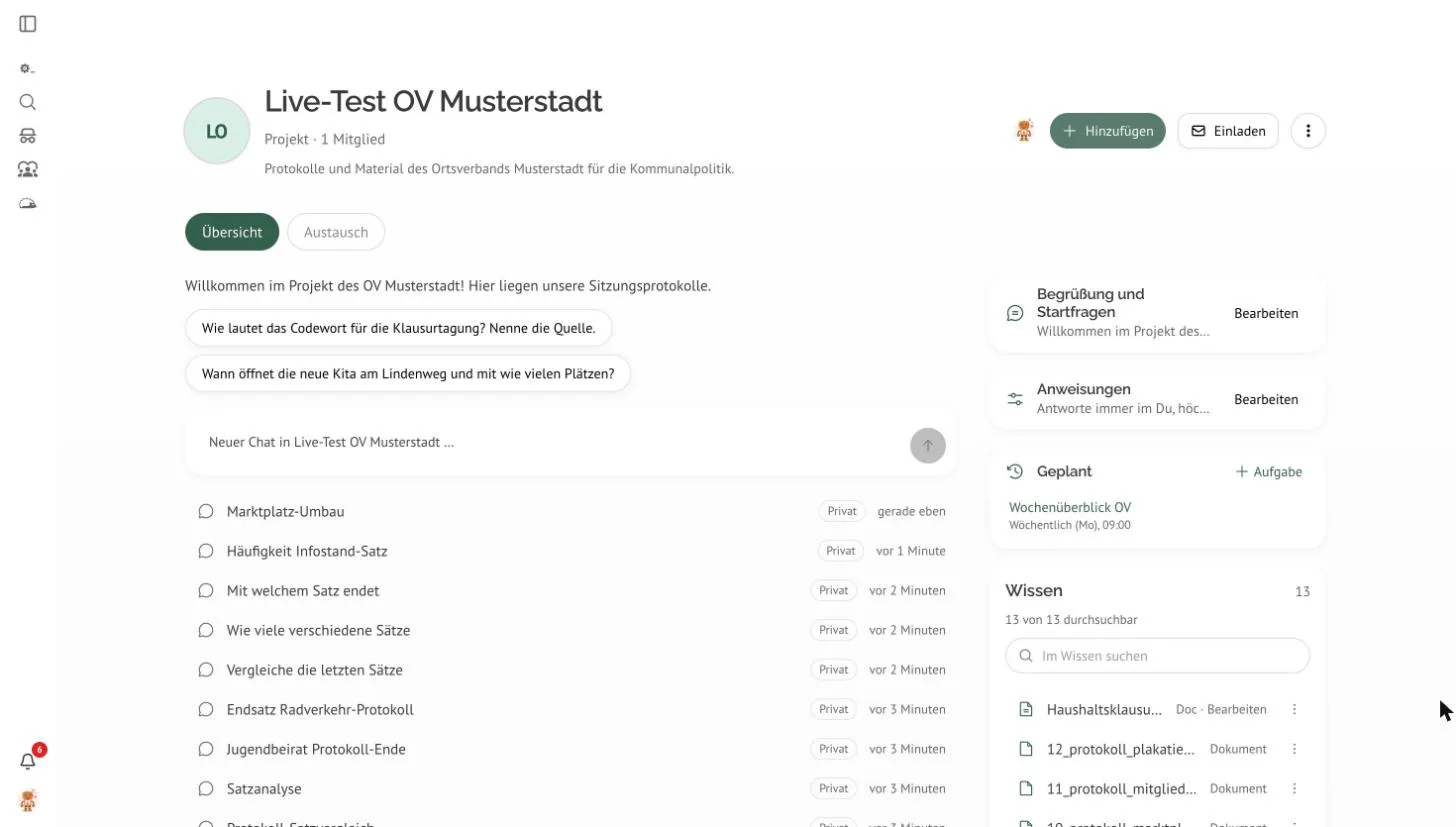
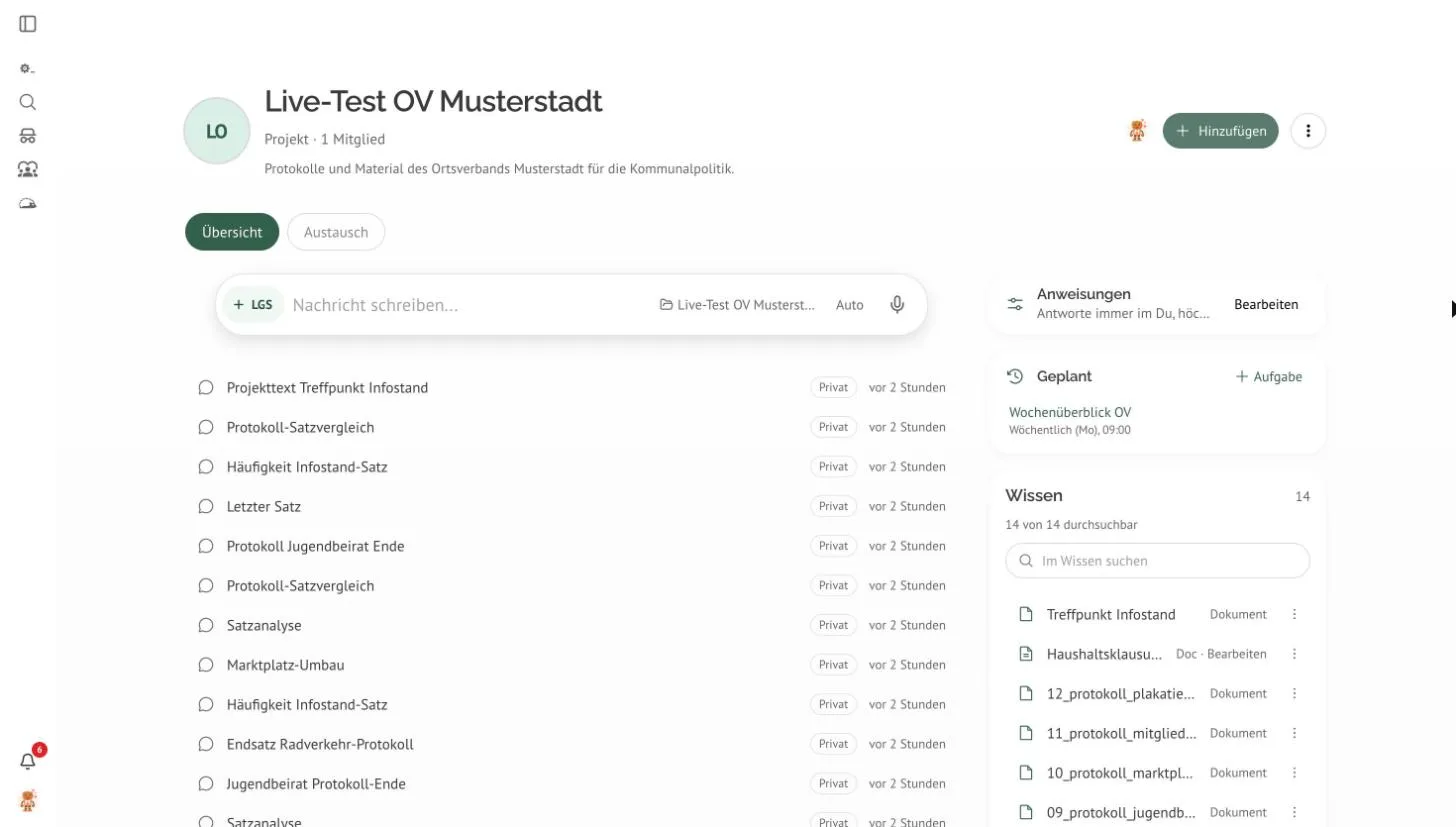
docs: project page without greeting, header invite or own composer
The guide now sends admins to the "…" menu to invite and shows a fresh
screenshot of the overview with the start composer.

diff --git a/docs/CLAUDE-groups.md b/docs/CLAUDE-groups.md
@@ -7,7 +7,7 @@ Stand: 22.11.2026. Produktname: **Projekte**; technische IDs, Tabellen und API-P
 **Seit 22.11.2026 gibt es eine Art Projekt** (Produktentscheidung): man legt es auf einem Weg an, nutzt es allein oder mit anderen, und Mitglieder lassen sich jederzeit einladen. „Gruppe“ ist kein Produktwort mehr (auch nicht für Team-Projekte). Die früheren Regeln „Persönlich“ vs. „Team“ (Revision 11.11.) sind zurückgenommen.
 
 - **Gespeichert wird `group_type = 'standard'`**; der Server ignoriert ein mitgeschicktes `groupType` (ausgelieferte Mobile-Binaries senden es noch). `'personal'` bleibt als F0-Altwert in Zeilen, Contract-Enum und Binaries lesbar, **verhält sich aber überall wie `'standard'`**: kein Server-Guard und keine UI-Weiche liest ihn mehr, ein Umkippen beim ersten Einladen braucht es deshalb nicht (Beitritt per Token und E-Mail-Einladung prüfen den Typ nie).
-- **Das Verhalten folgt der Mitgliedschaft:** Beiträge, Kommentare, Reaktionen, Mitglieder, Einladen, Beitrittsanfragen und „Öffentlich machen“ gibt es in jedem Projekt außer dem System-Projekt. Was nur mit anderen Sinn ergibt — der Tab **Austausch** und der Schalter **„Für das Team“** beim neuen Projekt-Chat — zeigt die UI bei mehr als einer Person; der **Austausch** zusätzlich, sobald es Beiträge oder besprochene Freigaben gibt (`hasAustauschContent`, #5950: wer wieder allein ist, verliert seine Beiträge nicht). Einladen steht als Knopf im Kopf (Admins, nicht im System- oder archivierten Projekt). **Archiviert** heißt: nur lesen — keine neuen Freigaben, Beiträge, Kommentare, Chats; wiederkehrende Aufgaben des Projekts **ruhen** (`claimDueRecurringTasks` überspringt sie, API und Chat-Werkzeug legen dort keine neuen an, #5951); nach „Wiederherstellen“ läuft eine überfällige Aufgabe einmal nach. Der Server lehnt nichts mehr nach Typ ab (Team-Chat in jedem Projekt, `team_chat_needs_team_project` kommt nur noch, wenn die Projektzeile fehlt).
+- **Das Verhalten folgt der Mitgliedschaft:** Beiträge, Kommentare, Reaktionen, Mitglieder, Einladen, Beitrittsanfragen und „Öffentlich machen“ gibt es in jedem Projekt außer dem System-Projekt. Was nur mit anderen Sinn ergibt — der Tab **Austausch** und der Schalter **„Für das Team“** beim neuen Projekt-Chat — zeigt die UI bei mehr als einer Person; der **Austausch** zusätzlich, sobald es Beiträge oder besprochene Freigaben gibt (`hasAustauschContent`, #5950: wer wieder allein ist, verliert seine Beiträge nicht). Einladen steht im „…“-Menü (Admins, nicht im System- oder archivierten Projekt); einen zweiten Knopf im Kopf gibt es bewusst nicht. Begrüßung und Startfragen auf der Übersicht gibt es seit 23.11.2026 nicht mehr (Produktentscheidung); die Spalten `group_instructions.welcome_message`/`start_questions` bleiben als F0 stehen und werden nicht gelesen. **Archiviert** heißt: nur lesen — keine neuen Freigaben, Beiträge, Kommentare, Chats; wiederkehrende Aufgaben des Projekts **ruhen** (`claimDueRecurringTasks` überspringt sie, API und Chat-Werkzeug legen dort keine neuen an, #5951); nach „Wiederherstellen“ läuft eine überfällige Aufgabe einmal nach. Der Server lehnt nichts mehr nach Typ ab (Team-Chat in jedem Projekt, `team_chat_needs_team_project` kommt nur noch, wenn die Projektzeile fehlt).
 
 | Art | Kennzeichen | Übersicht | Austausch |
 | --- | --- | --- | --- |
@@ -22,7 +22,7 @@ Web: `apps/web/src/features/groups/components/GroupInfoSection.tsx` (Kopf, „Hi
 
 **Übersicht** (`?beitrag=` und das System-Projekt öffnen stattdessen den Austausch):
 
-- **Chats:** `ProjectChatComposer` („Neuer Chat in …“) und `SpaceChatsSection` mit den Chats des Projekts. Nur wo geteilt werden darf und nicht im System-Projekt (`showChats`). Der Composer übergibt Nachricht und Projekt per `setPendingGroup(groupId, teamShared)` an `/chat`; der Chat legt den Thread dann **mit** `groupId` an, bevor der erste Turn läuft (der liest den Projekt-Kontext zur Laufzeit, ein späteres Ablegen käme zu spät). Die Liste filtert die Thread-Liste clientseitig (`projectChatThreads`), es gibt keinen eigenen Endpunkt.
+- **Chats:** `ProjectChatComposer` und `SpaceChatsSection` mit den Chats des Projekts. Nur wo geteilt werden darf und nicht im System-Projekt (`showChats`). Der Composer ist der Start-Composer (`ChatInner` mit `projectId`: Pill, Modus/Modell/Werkzeuge auf „Auto“, Projekt im Projekt-Picker vorgewählt), darunter bei mehr als einer Person der Schalter „Für das Team“. Die Vorwahl läuft über `setPendingGroup(groupId, teamShared)` und wird beim Verlassen ohne Senden wieder abgeräumt, sonst stünde das Projekt im nächsten Start-Composer; der Chat legt den Thread dann **mit** `groupId` an, bevor der erste Turn läuft (der liest den Projekt-Kontext zur Laufzeit, ein späteres Ablegen käme zu spät). Die Liste filtert die Thread-Liste clientseitig (`projectChatThreads`), es gibt keinen eigenen Endpunkt.
 - **Anweisungen** (`ProjectInstructionsCard`): eine Zeile, Dialog zum Bearbeiten für Admins; nicht im System-Projekt.
 - **Wissen** (`ProjectKnowledgeList`): alles Geteilte außer Beiträgen als kompakte Zeilen (Dateien, Texte, Notebooks, Rezepte, Agents, Docs …); je Datei/Doc der **Suchzustand** (`search_state`, abgeleitet in `services/groups/projectSearchState.ts`: wird eingelesen, fehlgeschlagen, nicht durchsuchbar, nach Bearbeitung veraltet, noch nicht indexiert, außerhalb der Deckel 200/50) und darüber „X von Y durchsuchbar“; das Web lädt nach, solange etwas eingelesen wird; Suchfeld ab sechs Zeilen; „Im Austausch besprechen“ holt ein Element dorthin; das Zeilenmenü verwaltet Rolle und Entfernen (`shareActions.tsx`).
 - Links (`GroupLinksSection`, nur wenn vorhanden) und, nur im Team-Projekt, **Mitglieder** (`ProjectMembersCard`).
